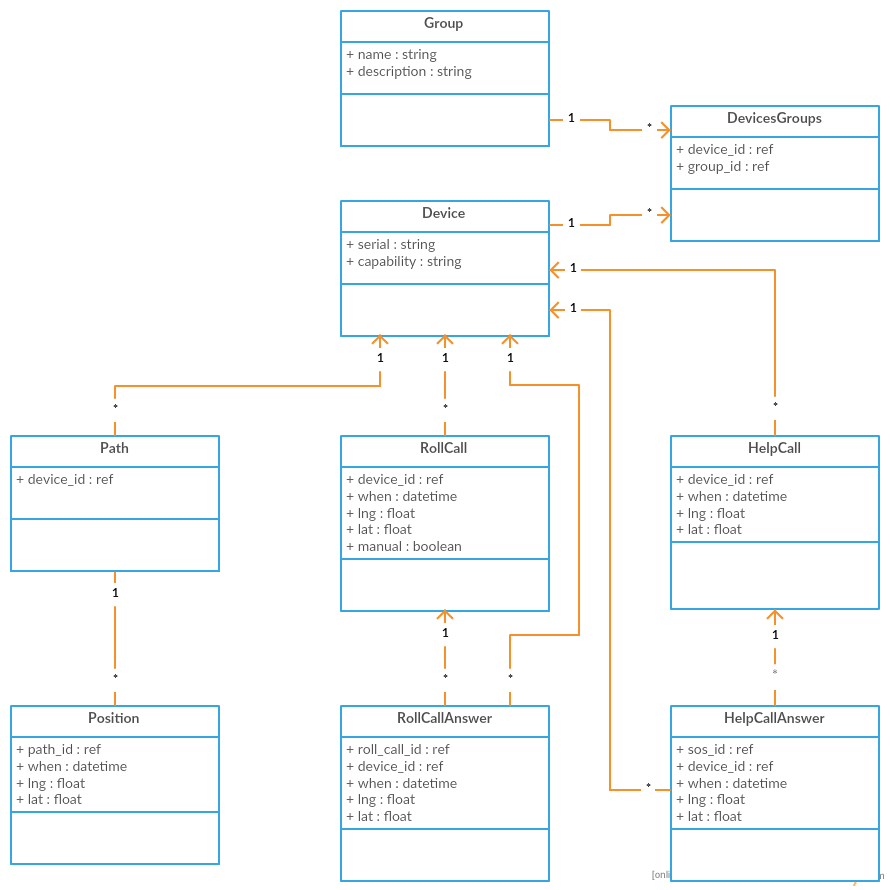
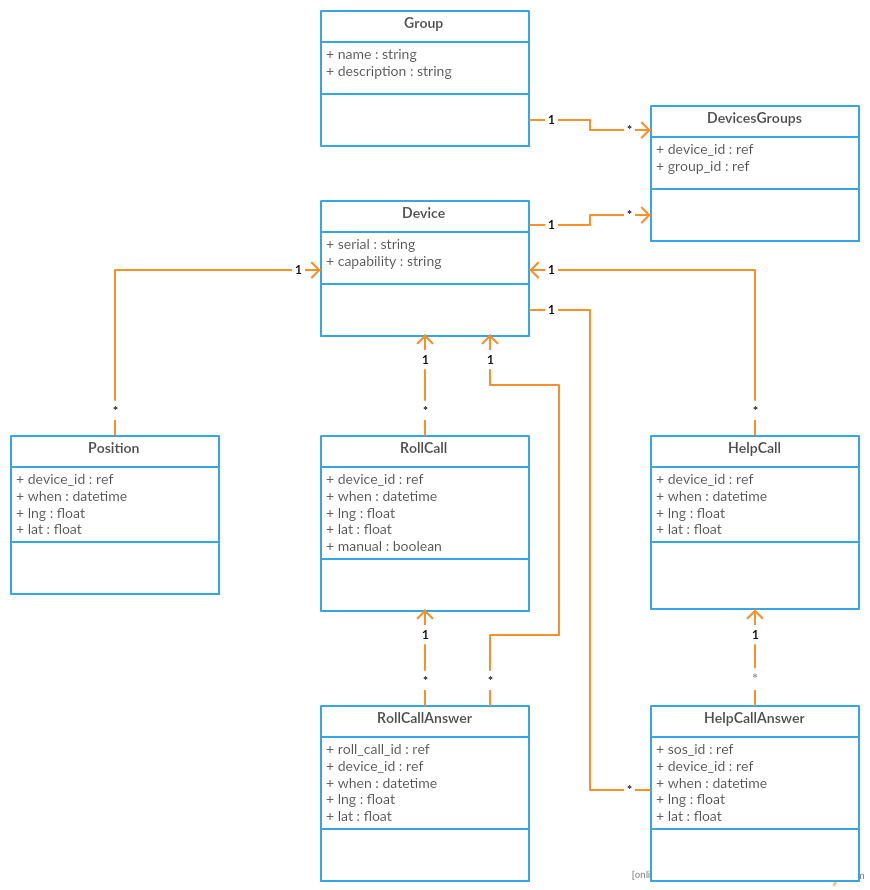
Modify routes.
* Move answers from under roll/help calls to under devices.
* Revise views to enable edit roll/help call and corresponding answers.

diff --git a/app/controllers/help_call_answers_controller.rb b/app/controllers/help_call_answers_controller.rb
@@ -17,10 +17,8 @@ class HelpCallAnswersController < ApplicationController
   def show
     if params[:help_call_id]
       @back_path = help_call_path(@help_call_answer.help_call)
-    elsif params[:device_id]
-      @back_path = device_path(@help_call_answer.device)
     else
-      @back_path = groups_path # help_call_answers_path
+      @back_path = device_path(@help_call_answer.device)
     end
   end
 
@@ -40,7 +38,7 @@ class HelpCallAnswersController < ApplicationController
 
     respond_to do |format|
       if @help_call_answer.save
-        format.html { redirect_to @help_call_answer, notice: 'Help call answer was successfully created.' }
+        format.html { redirect_to device_help_call_answers_path(@device), notice: 'Help call answer was successfully created.' }
         format.json { render :show, status: :created, location: @help_call_answer }
       else
         format.html { render :new }
@@ -54,7 +52,7 @@ class HelpCallAnswersController < ApplicationController
   def update
     respond_to do |format|
       if @help_call_answer.update(help_call_answer_params)
-        format.html { redirect_to @help_call_answer, notice: 'Help call answer was successfully updated.' }
+        format.html { redirect_to device_help_call_answers_path(@device), notice: 'Help call answer was successfully updated.' }
         format.json { render :show, status: :ok, location: @help_call_answer }
       else
         format.html { render :edit }
@@ -69,7 +67,7 @@ class HelpCallAnswersController < ApplicationController
     device = @help_call_answer.device
     @help_call_answer.destroy
     respond_to do |format|
-      format.html { redirect_to device_url(device), notice: 'Help call answer was successfully destroyed.' }
+      format.html { redirect_to device_help_call_answers_path(device), notice: 'Help call answer was successfully destroyed.' }
       format.json { head :no_content }
     end
   end

diff --git a/app/controllers/roll_call_answers_controller.rb b/app/controllers/roll_call_answers_controller.rb
@@ -17,10 +17,8 @@ class RollCallAnswersController < ApplicationController
   def show
     if params[:roll_call_id]
       @back_path = roll_call_path(@roll_call_answer.roll_call)
-    elsif params[:device_id]
-      @back_path = device_path(@roll_call_answer.device)
     else
-      @back_path = groups_path # roll_call_answers_path
+      @back_path = device_path(@roll_call_answer.device)
     end
   end
 
@@ -40,7 +38,7 @@ class RollCallAnswersController < ApplicationController
 
     respond_to do |format|
       if @roll_call_answer.save
-        format.html { redirect_to @roll_call_answer, notice: 'Roll call answer was successfully created.' }
+        format.html { redirect_to device_roll_call_answers_path(@device), notice: 'Roll call answer was successfully created.' }
         format.json { render :show, status: :created, location: @roll_call_answer }
       else
         format.html { render :new }
@@ -54,7 +52,7 @@ class RollCallAnswersController < ApplicationController
   def update
     respond_to do |format|
       if @roll_call_answer.update(roll_call_answer_params)
-        format.html { redirect_to @roll_call_answer, notice: 'Roll call answer was successfully updated.' }
+        format.html { redirect_to device_roll_call_answers_path(@device), notice: 'Roll call answer was successfully updated.' }
         format.json { render :show, status: :ok, location: @roll_call_answer }
       else
         format.html { render :edit }
@@ -69,7 +67,7 @@ class RollCallAnswersController < ApplicationController
     device = @roll_call_answer.device
     @roll_call_answer.destroy
     respond_to do |format|
-      format.html { redirect_to device_url(device), notice: 'Roll call answer was successfully destroyed.' }
+      format.html { redirect_to device_roll_call_answers_path(device), notice: 'Roll call answer was successfully destroyed.' }
       format.json { head :no_content }
     end
   end

diff --git a/config/routes.rb b/config/routes.rb
@@ -4,12 +4,10 @@ Rails.application.routes.draw do
   scope '/1.0' do
     resources :devices, shallow: true do
       resources :positions
-      resources :roll_calls do
-        resources :roll_call_answers
-      end
-      resources :help_calls do
-        resources :help_call_answers
-      end
+      resources :roll_calls
+      resources :roll_call_answers
+      resources :help_calls
+      resources :help_call_answers
     end
 
     resources :groups

diff --git a/app/controllers/help_calls_controller.rb b/app/controllers/help_calls_controller.rb
@@ -15,11 +15,7 @@ class HelpCallsController < ApplicationController
   # GET /help_calls/1
   # GET /help_calls/1.json
   def show
-    if params[:device_id]
-      @back_path = device_path(@help_call.device)
-    else
-      @back_path = groups_path # help_calls_path
-    end
+    @back_path = device_path(@help_call.device)
   end
 
   # GET /help_calls/new

diff --git a/app/controllers/roll_calls_controller.rb b/app/controllers/roll_calls_controller.rb
@@ -15,11 +15,7 @@ class RollCallsController < ApplicationController
   # GET /roll_calls/1
   # GET /roll_calls/1.json
   def show
-    if params[:device_id]
-      @back_path = device_path(@roll_call.device)
-    else
-      @back_path = groups_path # roll_calls_path
-    end
+    @back_path = device_path(@roll_call.device)
   end
 
   # GET /roll_calls/new

diff --git a/app/controllers/devices_controller.rb b/app/controllers/devices_controller.rb
@@ -18,7 +18,7 @@ class DevicesController < ApplicationController
     if params[:group_id]
       @back_path = group_path(params[:group_id])
     else
-      @back_path = groups_path
+      @back_path = devices_path
     end
   end
 
